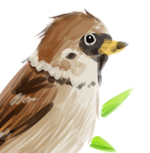
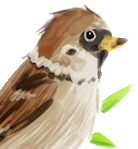
Sparrow adjustment

diff --git a/src/frontend/components/tile.tsx b/src/frontend/components/tile.tsx
@@ -244,7 +244,7 @@ class TileComponent extends Component("tile", {
             background-image: url("./assets/img/sparrow.png");
             background-position: center calc(100% + 0.15em);
             background-repeat: no-repeat;
-            background-size: auto calc(100% + 0.15em);
+            background-size: cover;
           }
 
           [part="rank"] {
